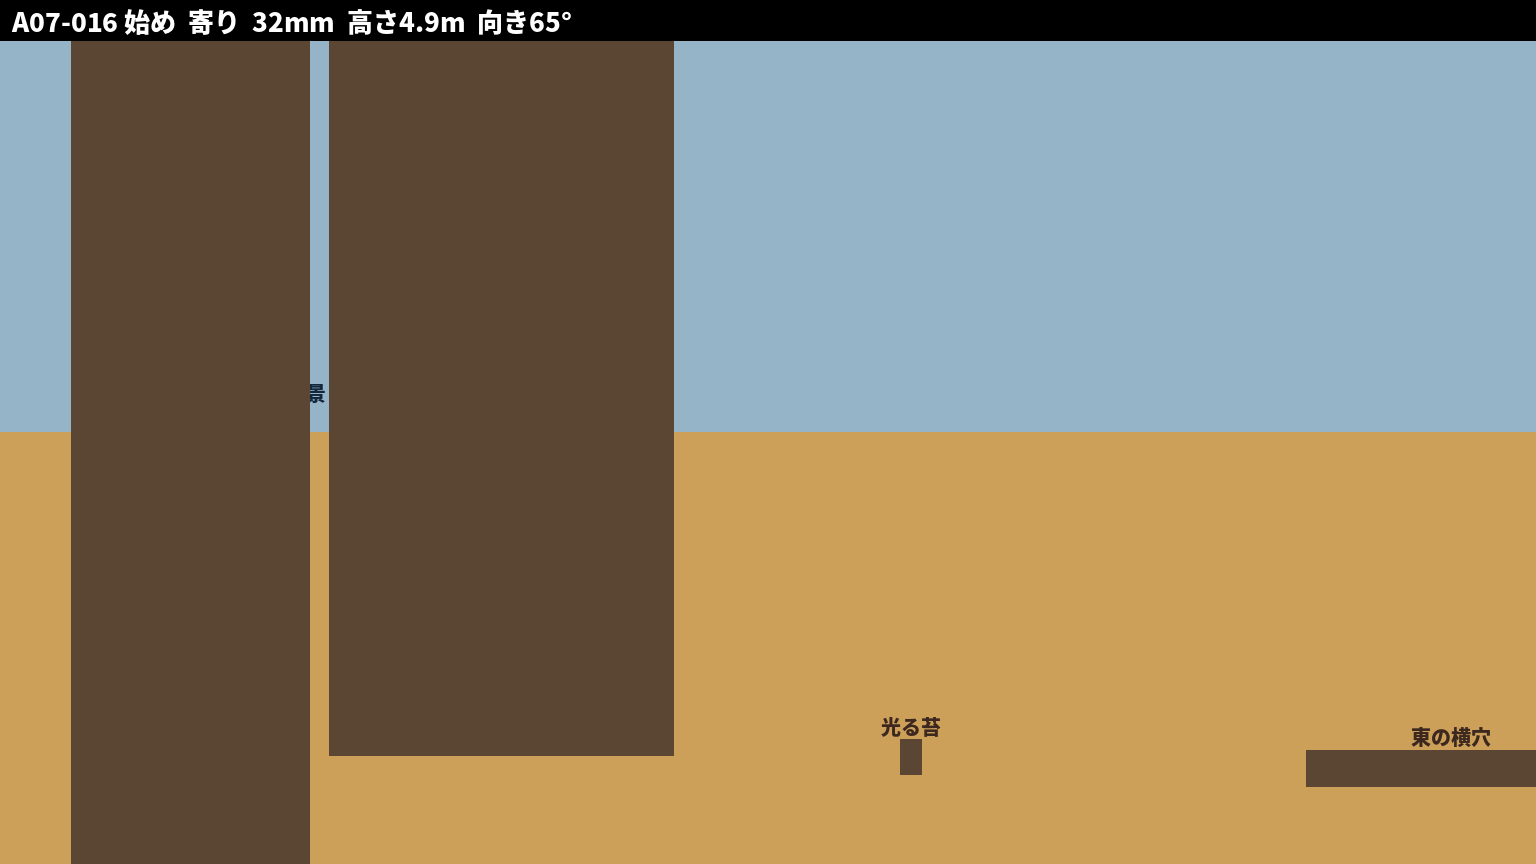
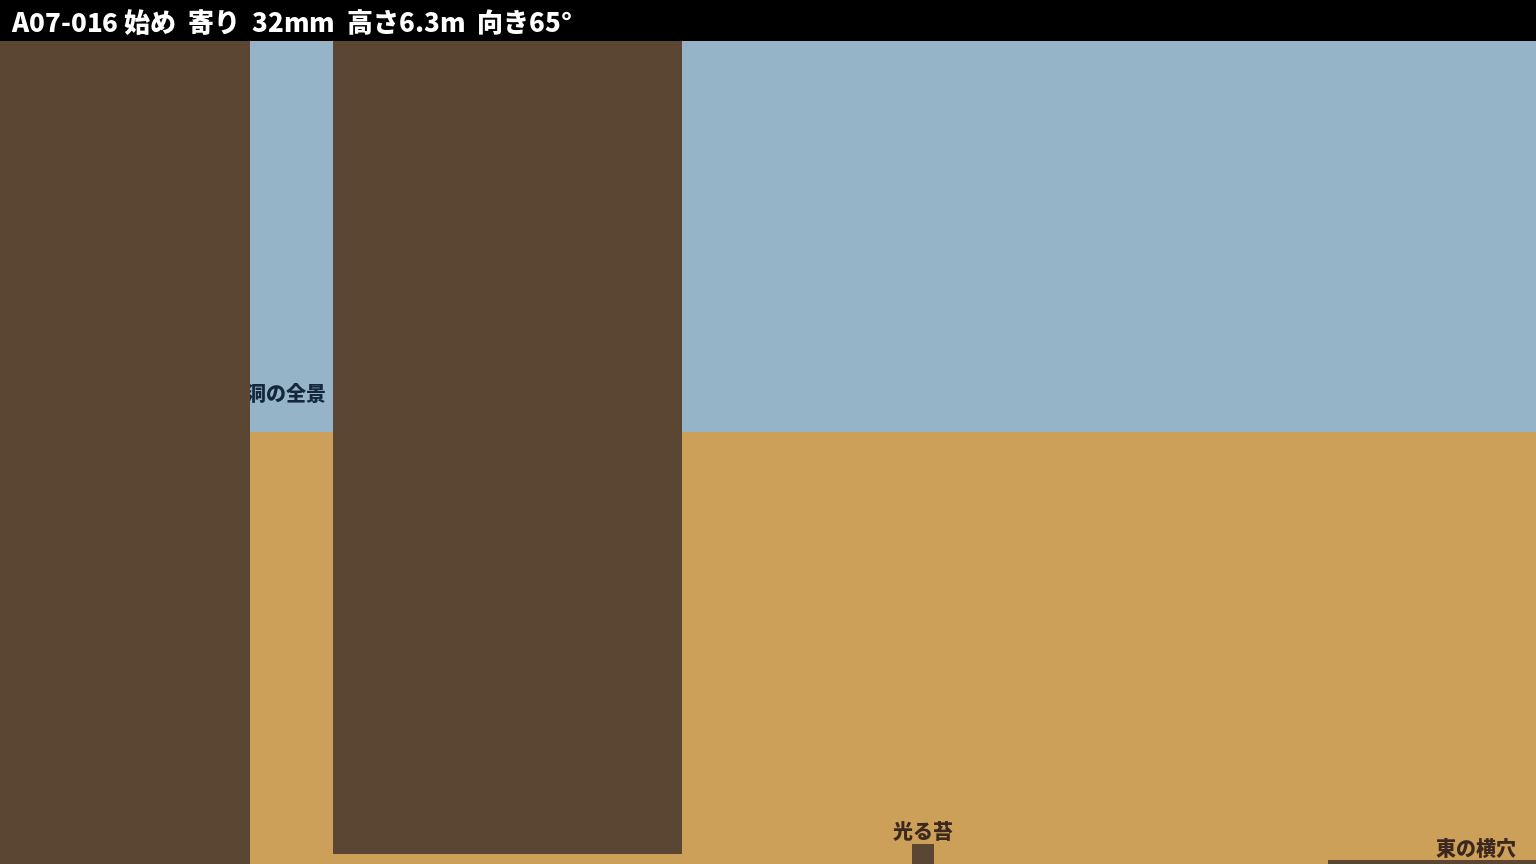
A07・A08 の確認画像を描き直す（002・016〜018、A08 001・004〜007）。A07-016 のカメラを頭の上の百騎兵が見える高さへ
Claude-Session: https://claude.ai/code/session_01FyK1WavrjPY2DCSfzA7vXR

diff --git a/episodes/A/scenes/A07/gen/staging_report.md b/episodes/A/scenes/A07/gen/staging_report.md
@@ -20,7 +20,7 @@
 | 013 | 全身 | 場の外・地面すれすれ・28mm・212° | 百（右・背中） | 百（右・背中） | 地下空洞の全景〔空洞 全景〕 |
 | 014 | 引き | 場の外・低め・24mm・327° | 百（中央・横顔（画面左向き）） | 百（中央・背中） | 地下空洞の全景〔空洞 全景〕 |
 | 015 | 全身 | 場の外・高い位置・32mm・276° | 百（中央・背中） | 百（中央・斜め前（画面左向き）） | 地下空洞の俯瞰〔空洞 俯瞰〕 |
-| 016 | 寄り | 場の外・高い位置・32mm・65° | 百（中央・斜め前（画面左向き）） | 百（中央・斜め前（画面左向き）） | 地下空洞の全景〔空洞 全景〕 |
+| 016 | 寄り | 月の光の円・高い位置・32mm・65° | 百（中央・斜め前（画面左向き）） | 百（中央・斜め前（画面左向き）） | 地下空洞の全景〔空洞 全景〕 |
 | 017 | 大引き | 場の外・24mm・46° | 百（中央・斜め前（画面左向き）） | 百（右・斜め前（画面左向き）） | 地下空洞の全景〔空洞 全景〕 |
 | 018 | 引き | 場の外・24mm・322° | 百（中央・背中） | 百（中央・背中） | 地下空洞の全景〔空洞 全景〕 |
 
